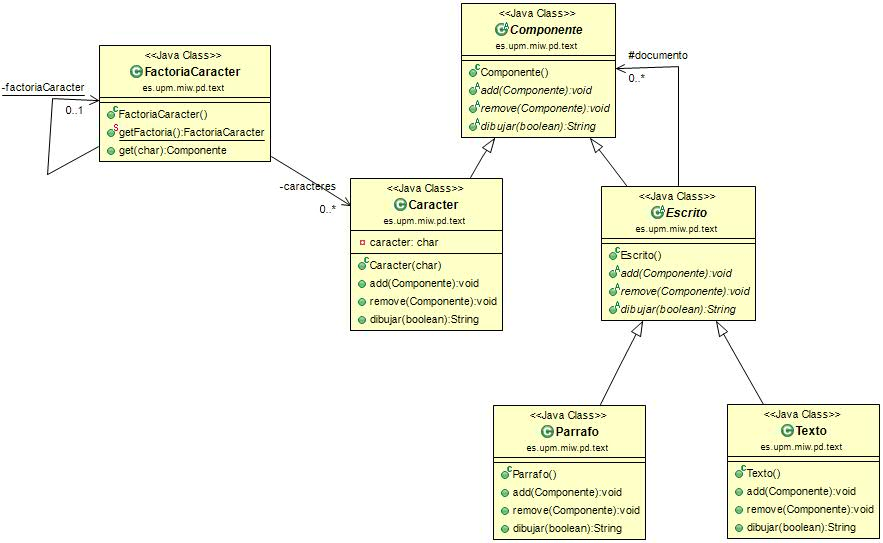
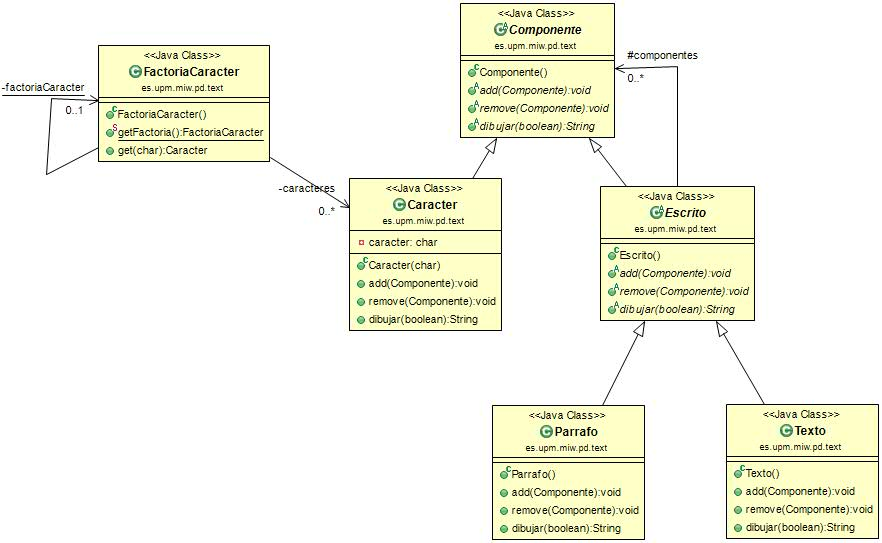
Updated Text

diff --git a/src/main/java/es/upm/miw/pd/text/FactoriaCaracter.java b/src/main/java/es/upm/miw/pd/text/FactoriaCaracter.java
@@ -7,26 +7,24 @@ public class FactoriaCaracter {
 
     private static FactoriaCaracter factoriaCaracter = new FactoriaCaracter(); // PATRON SINGLETON
 
-    private Map<Character, Caracter> caracteres = new HashMap<Character, Caracter>(); // PATRON PESO-LIGERO
+    private Map<Character, Caracter> caracteres; // PATRON PESO-LIGERO
 
     public FactoriaCaracter() {
-        // mayusculas
-        for (int i = 65; i <= 90; i++) {
-            Character c = (char) i;
-            caracteres.put(c, new Caracter(c));
-        }
-        // minusculas
-        for (int i = 97; i <= 122; i++) {
-            Character c = (char) i;
-            caracteres.put(c, new Caracter(c));
-        }
+        caracteres = new HashMap<Character, Caracter>();
     }
 
     public static FactoriaCaracter getFactoria() {
         return factoriaCaracter;
     }
 
-    public Componente get(char c) {
-        return caracteres.get(c);
+    public Caracter get(char key) {
+        if (caracteres.containsKey(key)) {
+            return caracteres.get(key);
+        } else {
+            // Construcción perezosa
+            Caracter c = new Caracter(key);
+            caracteres.put(key, c);
+            return c;
+        }
     }
 }

diff --git a/src/main/java/es/upm/miw/pd/text/Parrafo.java b/src/main/java/es/upm/miw/pd/text/Parrafo.java
@@ -8,7 +8,7 @@ public class Parrafo extends Escrito {
     public void add(Componente componente) {
         try {
             Caracter caracter = (Caracter) componente;
-            documento.add(caracter);
+            componentes.add(caracter);
         } catch (Exception e) {
             throw new UnsupportedOperationException();
         }
@@ -18,7 +18,7 @@ public class Parrafo extends Escrito {
     public void remove(Componente componente) {
         try {
             Caracter caracter = (Caracter) componente;
-            documento.removeAll(Collections.singleton(caracter));
+            componentes.removeAll(Collections.singleton(caracter));
         } catch (Exception e) {
             throw new UnsupportedOperationException();
         }
@@ -28,7 +28,7 @@ public class Parrafo extends Escrito {
     @Override
     public String dibujar(boolean mayusculas) {
         String stringParrafo = "";
-        for (Componente componente : documento) {
+        for (Componente componente : componentes) {
             stringParrafo += componente.dibujar(mayusculas);
         }
         return stringParrafo + "\n";

diff --git a/src/main/java/es/upm/miw/pd/text/Texto.java b/src/main/java/es/upm/miw/pd/text/Texto.java
@@ -8,7 +8,7 @@ public class Texto extends Escrito {
     public void add(Componente componente) {
         try {
             Escrito escrito = (Escrito) componente;
-            documento.add(escrito);
+            componentes.add(escrito);
         } catch (Exception e) {
             throw new UnsupportedOperationException();
         }
@@ -18,7 +18,7 @@ public class Texto extends Escrito {
     public void remove(Componente componente) {
         try {
             Escrito escrito = (Escrito) componente;
-            documento.removeAll(Collections.singleton(escrito));
+            componentes.removeAll(Collections.singleton(escrito));
         } catch (Exception e) {
             throw new UnsupportedOperationException();
         }
@@ -27,7 +27,7 @@ public class Texto extends Escrito {
     @Override
     public String dibujar(boolean mayusculas) {
         String stringTexto = "";
-        for (Componente componente : documento) {
+        for (Componente componente : componentes) {
             stringTexto += componente.dibujar(mayusculas);
         }
         return stringTexto + "---o---\n";

diff --git a/src/main/java/es/upm/miw/pd/text/Escrito.java b/src/main/java/es/upm/miw/pd/text/Escrito.java
@@ -5,10 +5,10 @@ import java.util.List;
 
 public abstract class Escrito extends Componente {
 
-    protected List<Componente> documento;
+    protected List<Componente> componentes;
 
     public Escrito() {
-        this.documento = new ArrayList<Componente>();
+        this.componentes = new ArrayList<Componente>();
     }
 
     public abstract void add(Componente componente);
